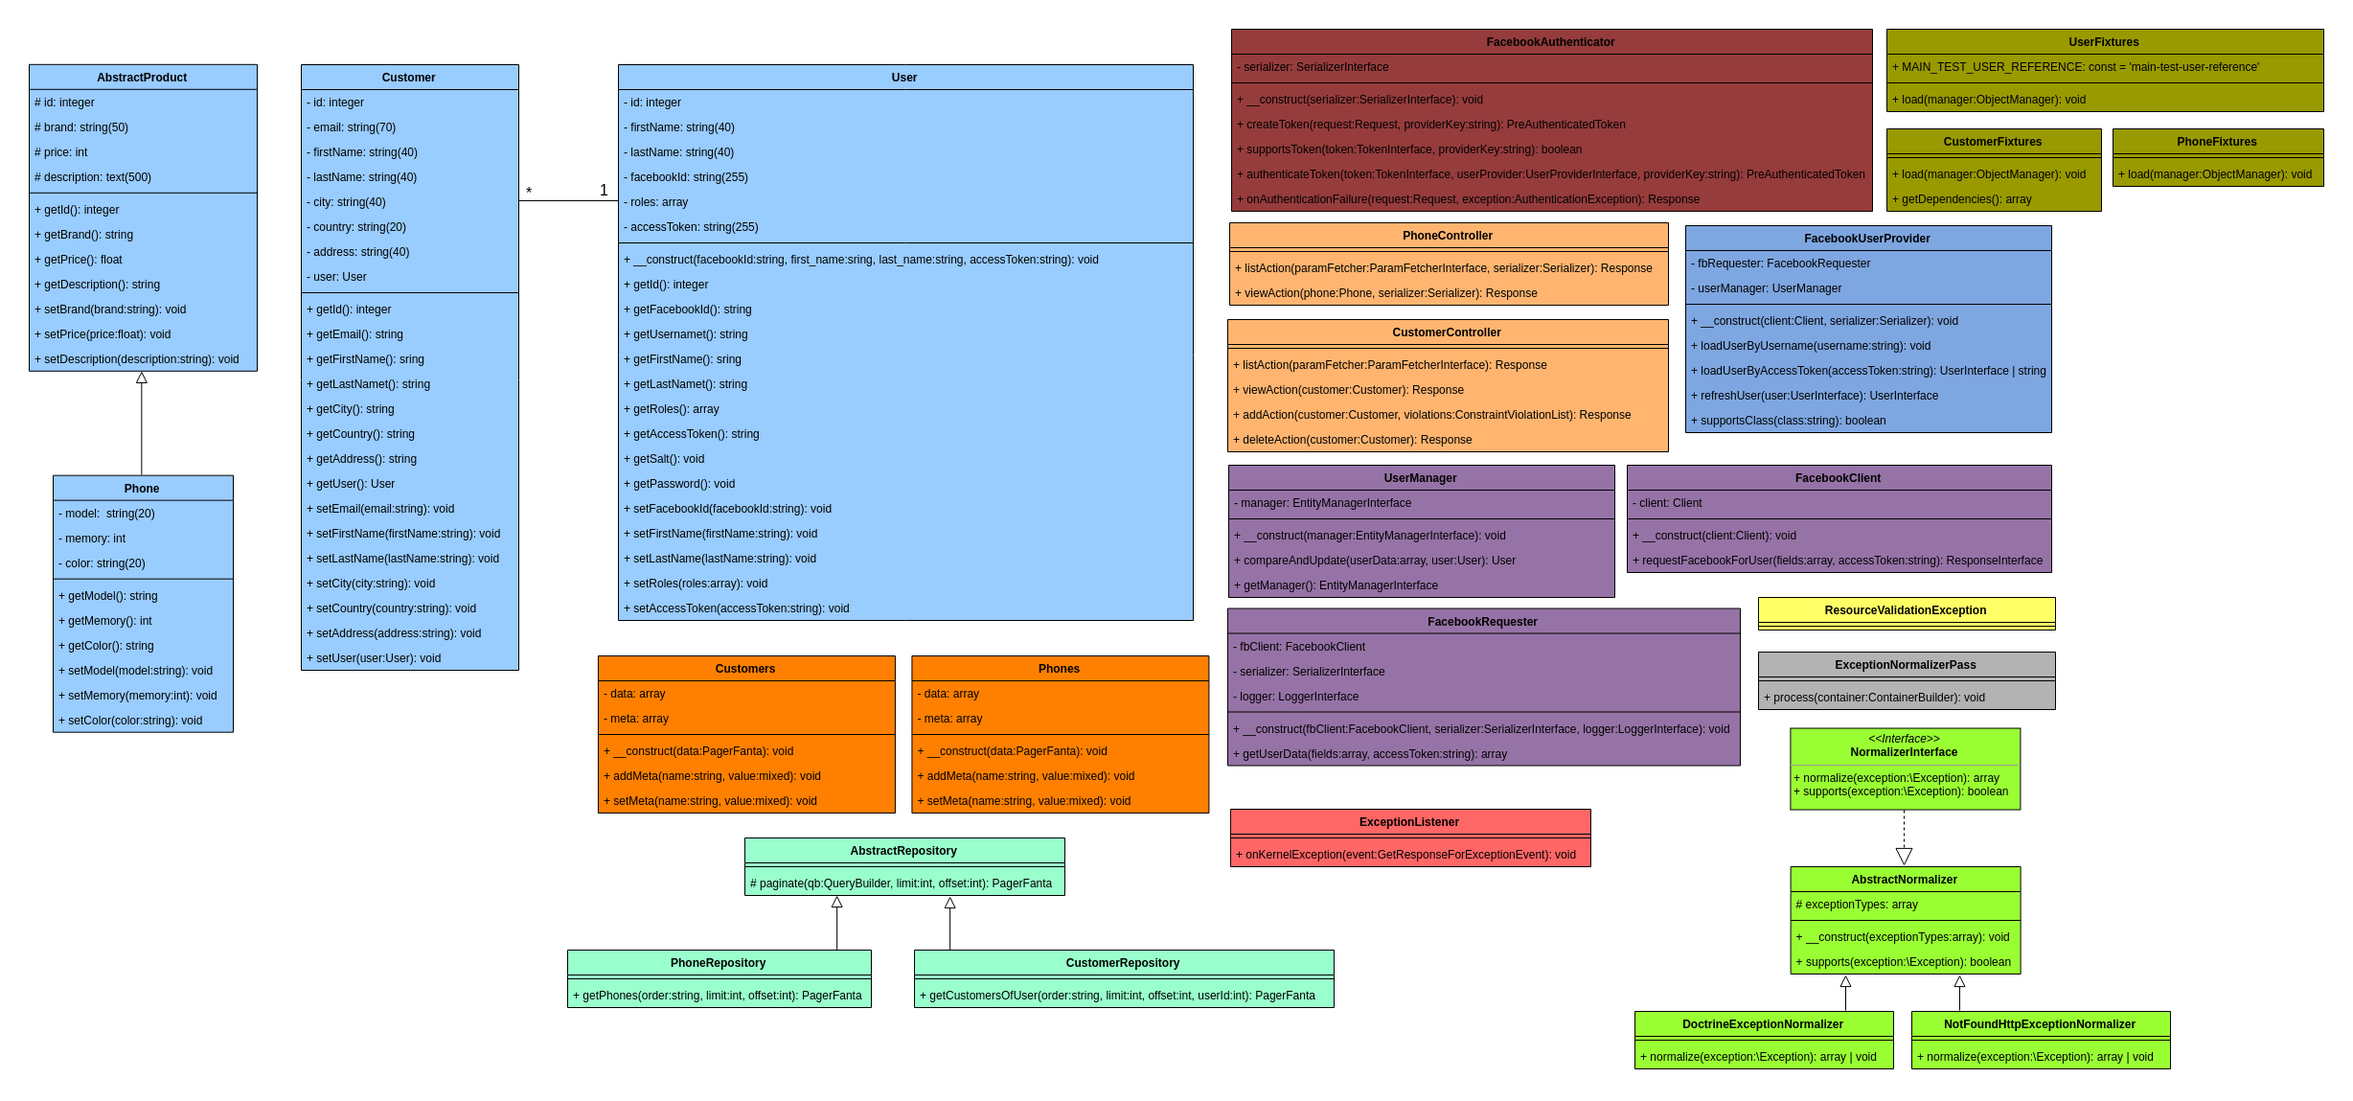
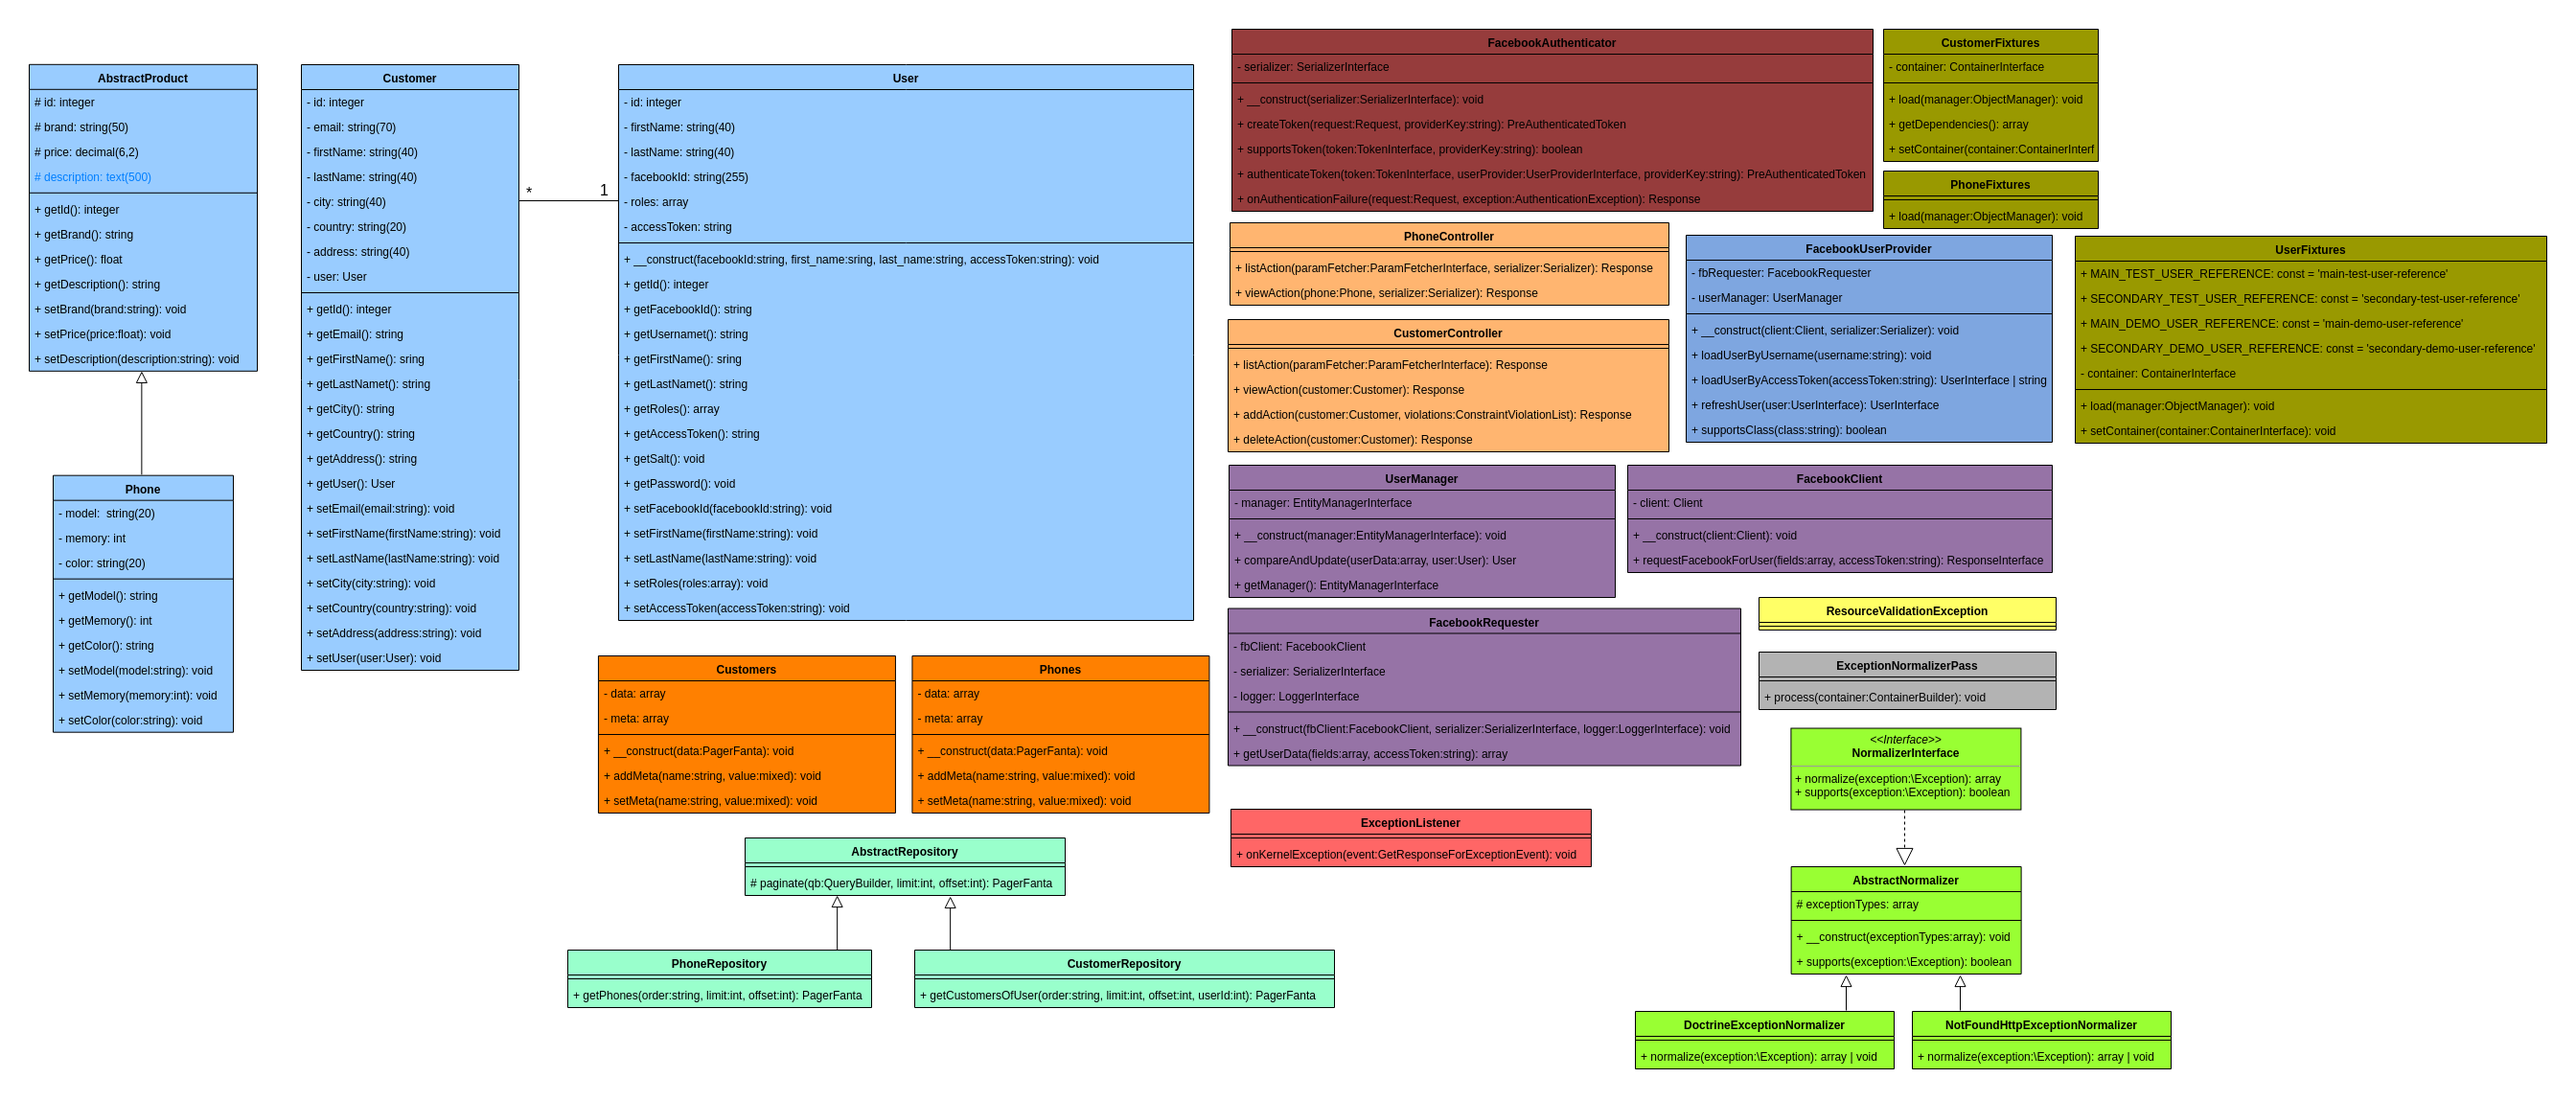
Update class diagram, create physic data schema, update all entities for add Serializer\Since('1.0') annotation and update config.yml for add config for version

Changed region(s): [[0.0, 0.0, 0.9902, 0.8834], [0.2166, 0.8529, 0.5879, 0.9138], [0.6189, 0.9138, 0.9283, 0.9748]]

diff --git a/src/AppBundle/Entity/User.php b/src/AppBundle/Entity/User.php
@@ -8,12 +8,14 @@ namespace AppBundle\Entity;
 
 use Doctrine\ORM\Mapping as ORM;
 use Symfony\Component\Security\Core\User\UserInterface;
+use JMS\Serializer\Annotation as Serializer;
 
 /**
  * User
  *
  * @ORM\Table(name="user")
  * @ORM\Entity(repositoryClass="AppBundle\Repository\UserRepository")
+ * @Serializer\ExclusionPolicy("all")
  */
 class User implements UserInterface
 {
@@ -23,6 +25,8 @@ class User implements UserInterface
      * @ORM\Column(name="id", type="integer")
      * @ORM\Id
      * @ORM\GeneratedValue(strategy="AUTO")
+     * @Serializer\Since("1.0")
+     * @Serializer\Expose
      */
     private $id;
 
@@ -30,6 +34,8 @@ class User implements UserInterface
      * @var string
      * @access private
      * @ORM\Column(name="first_name", type="string", length=40)
+     * @Serializer\Since("1.0")
+     * @Serializer\Expose
      */
     private $firstName;
 
@@ -37,6 +43,8 @@ class User implements UserInterface
      * @var string
      * @access private
      * @ORM\Column(name="last_name", type="string", length=40)
+     * @Serializer\Since("1.0")
+     * @Serializer\Expose
      */
     private $lastName;
 
@@ -44,6 +52,8 @@ class User implements UserInterface
      * @var string
      * @access private
      * @ORM\Column(name="facebook_id", type="string", length=255, unique=true)
+     * @Serializer\Since("1.0")
+     * @Serializer\Expose
      */
     private $facebookId;
 
@@ -51,12 +61,16 @@ class User implements UserInterface
      * @var array
      * @access private
      * @ORM\Column(name="roles", type="array")
+     * @Serializer\Since("1.0")
+     * @Serializer\Expose
      */
     private $roles;
 
     /**
      * @var string
      * @access private
+     * @Serializer\Since("1.0")
+     * @Serializer\Expose
      */
     private $accessToken;
 

diff --git a/src/AppBundle/Entity/Customer.php b/src/AppBundle/Entity/Customer.php
@@ -53,6 +53,7 @@ class Customer
      * @ORM\Id
      * @ORM\GeneratedValue(strategy="AUTO")
      * @Serializer\Expose
+     * @Serializer\Since("1.0")
      */
     private $id;
 
@@ -69,6 +70,7 @@ class Customer
      * )
      * @Assert\Email(message = "Please enter a valid email address !")
      * @Serializer\Expose
+     * @Serializer\Since("1.0")
      */
     private $email;
 
@@ -88,6 +90,7 @@ class Customer
      *      message = "The first name can only contain letters and a dash"
      * )
      * @Serializer\Expose
+     * @Serializer\Since("1.0")
      */
     private $firstName;
 
@@ -107,6 +110,7 @@ class Customer
      *      message = "The last name can only contain letters and a dash"
      * )
      * @Serializer\Expose
+     * @Serializer\Since("1.0")
      */
     private $lastName;
 
@@ -126,6 +130,7 @@ class Customer
      *      message = "The city can only contain letters and a dash"
      * )
      * @Serializer\Expose
+     * @Serializer\Since("1.0")
      */
     private $city;
 
@@ -145,6 +150,7 @@ class Customer
      *      message = "The country can only contain letters and a dash"
      * )
      * @Serializer\Expose
+     * @Serializer\Since("1.0")
      */
     private $country;
 
@@ -164,6 +170,7 @@ class Customer
      *      message = "The address can only contain letters, dashes, numbers, spaces"
      * )
      * @Serializer\Expose
+     * @Serializer\Since("1.0")
      */
     private $address;
 

diff --git a/src/AppBundle/Entity/AbstractProduct.php b/src/AppBundle/Entity/AbstractProduct.php
@@ -7,9 +7,11 @@
 namespace AppBundle\Entity;
 
 use Doctrine\ORM\Mapping as ORM;
+use JMS\Serializer\Annotation as Serializer;
 
 /**
  * AbstractProduct
+ * @Serializer\ExclusionPolicy("all")
  */
 abstract class AbstractProduct
 {
@@ -19,6 +21,8 @@ abstract class AbstractProduct
      * @ORM\Column(name="id", type="integer")
      * @ORM\Id
      * @ORM\GeneratedValue(strategy="AUTO")
+     * @Serializer\Expose
+     * @Serializer\Since("1.0")
      */
     protected $id;
 
@@ -26,6 +30,8 @@ abstract class AbstractProduct
      * @var string
      * @access protected
      * @ORM\Column(name="brand", type="string", length=50)
+     * @Serializer\Expose
+     * @Serializer\Since("1.0")
      */
     protected $brand;
 
@@ -33,6 +39,8 @@ abstract class AbstractProduct
      * @var string
      * @access protected
      * @ORM\Column(name="price", type="decimal", precision=6, scale=2)
+     * @Serializer\Expose
+     * @Serializer\Since("1.0")
      */
     protected $price;
 
@@ -40,6 +48,8 @@ abstract class AbstractProduct
      * @var string
      * @access protected
      * @ORM\Column(name="description", type="text", nullable=true)
+     * @Serializer\Expose
+     * @Serializer\Since("1.0")
      */
     protected $description;
 

diff --git a/src/AppBundle/Entity/Phone.php b/src/AppBundle/Entity/Phone.php
@@ -9,6 +9,7 @@ namespace AppBundle\Entity;
 use Doctrine\ORM\Mapping as ORM;
 use AppBundle\Entity\AbstractProduct;
 use Hateoas\Configuration\Annotation as Hateoas;
+use JMS\Serializer\Annotation as Serializer;
 
 /**
  * Phone
@@ -30,6 +31,7 @@ use Hateoas\Configuration\Annotation as Hateoas;
  *         excludeIf = "expr(service('request_stack').getCurrentRequest().get('_route') == 'bi_list_phones')"
  *     )
  * )
+ * @Serializer\ExclusionPolicy("all")
  */
 class Phone extends AbstractProduct
 {
@@ -37,6 +39,8 @@ class Phone extends AbstractProduct
      * @var string
      * @access private
      * @ORM\Column(name="model", type="string", length=20)
+     * @Serializer\Expose
+     * @Serializer\Since("1.0")
      */
     private $model;
 
@@ -44,6 +48,8 @@ class Phone extends AbstractProduct
      * @var int
      * @access private
      * @ORM\Column(name="memory", type="integer")
+     * @Serializer\Expose
+     * @Serializer\Since("1.0")
      */
     private $memory;
 
@@ -51,6 +57,8 @@ class Phone extends AbstractProduct
      * @var string
      * @access private
      * @ORM\Column(name="color", type="string", length=20)
+     * @Serializer\Expose
+     * @Serializer\Since("1.0")
      */
     private $color;
 
